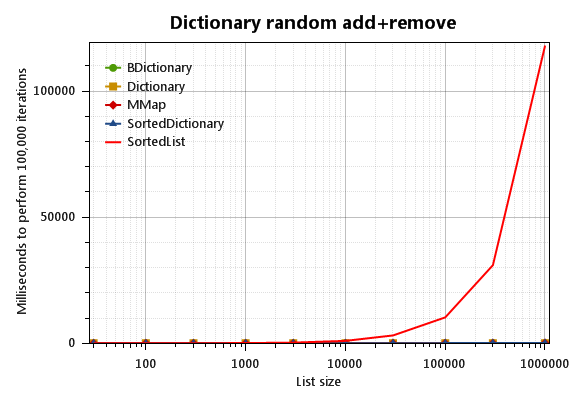
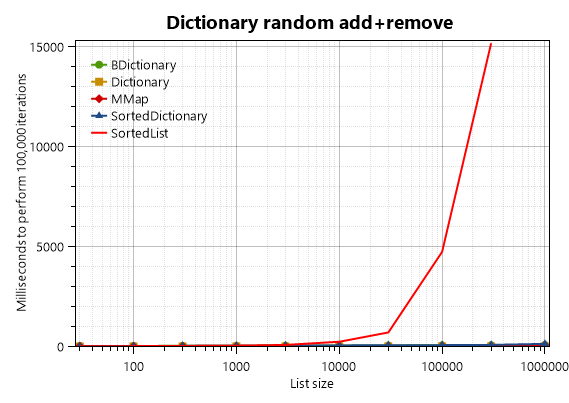
Refresh AList benchmarks

diff --git a/collections/alists-part3.md b/collections/alists-part3.md
@@ -230,7 +230,10 @@ So `AList` crushes all. When the list is small, however, `AList<T>` is not the c
 ![Results](bm-insert-at-random-indexes-.png)
 ![Results](bm-remove-at-random-indexes-.png)
 
-In fact, for small lists (under 100 items), `List<T>` is about twice as fast.
+In fact, for small lists (under 100 items), `List<T>` is about twice as fast. `AList` (the green one) at least saves a little memory:
+
+![](bm-bytes-used-per-list-item-b.png)
+![](bm-bytes-used-per-list.png.png)
 
 `AList` also sucks at simple "filling", where items are always added to the end of the list:
 
@@ -287,7 +290,11 @@ Now let's see a graph without `SortedList` screwing up the Y axis:
 
 It should be noted that sorted dictionaries is normally slower than unsorted dictionaries. The standard `Dictionary<K,V>` and the `MMap<K,V>` class of [Loyc.Collections](/collections) are both unsorted, so they are faster than `BDictionary<K,V>` and the standard `SortedDictionary<K,V>` which are sorted.
 
-To my disappointment, `BDictionary<K,V>` is usually slower than `SortedDictionary<K,V>`. On the plus side, `BDictionary<K,V>` uses less memory than `SortedDictionary<K,V>` because it packs its items into arrays. In contrast, `SortedDictionary` is a red-black tree that allocates a separate heap object for every pair (node) in the dictionary. The overhead of this is 5 words per item, typically 40 bytes in a 64-bit process (that's two words for the object header, two words for references to the left and right children of each node, and one word for the "red" flag of the [red-black tree](http://en.wikipedia.org/wiki/Red%E2%80%93black_tree)). It should also be noted that `SortedDictionary<K,V>` can cause more stress on the garbage collector than `BDictionary<K,V>` because it contains so many references; I expect this only affects performance significantly in apps with large heaps.
+To my disappointment, `BDictionary<K,V>` is usually slower than `SortedDictionary<K,V>`. On the plus side, `BDictionary<K,V>` uses less memory than `SortedDictionary<K,V>` because it packs its items into arrays.
+
+![](bm-bytes-per-dictionary-pair-b.png)
+
+In contrast, `SortedDictionary` is a red-black tree that allocates a separate heap object for every pair (node) in the dictionary. The overhead of this is 5 words per item, typically 40 bytes in a 64-bit process (that's two words for the object header, two words for references to the left and right children of each node, and one word for the "red" flag of the [red-black tree](http://en.wikipedia.org/wiki/Red%E2%80%93black_tree)). It should also be noted that `SortedDictionary<K,V>` can cause more stress on the garbage collector than `BDictionary<K,V>` because it contains so many references; I expect this only affects performance significantly in apps with large heaps.
 
 Although its speed is merely O.K., `BDictionary<K,V>` is often a better choice than `SortedDictionary<K,V>` because it supports many operations, such as "find next higher key", "split list into two pieces", "observe changes" and "clone instantly" that `SortedDictionary<K,V>` does not.
 
